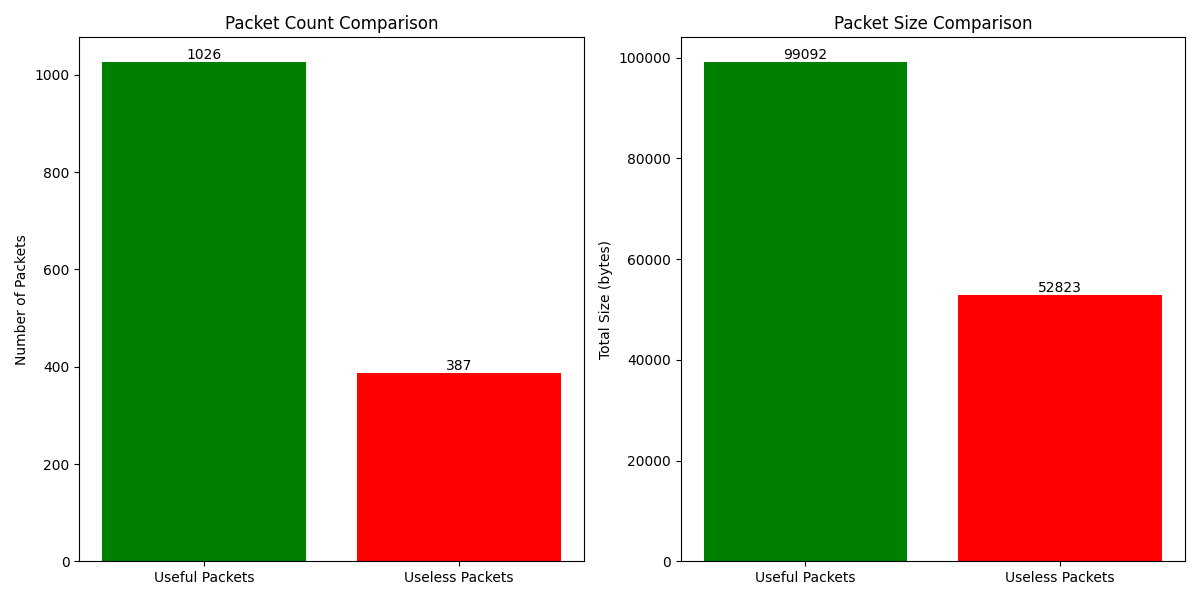
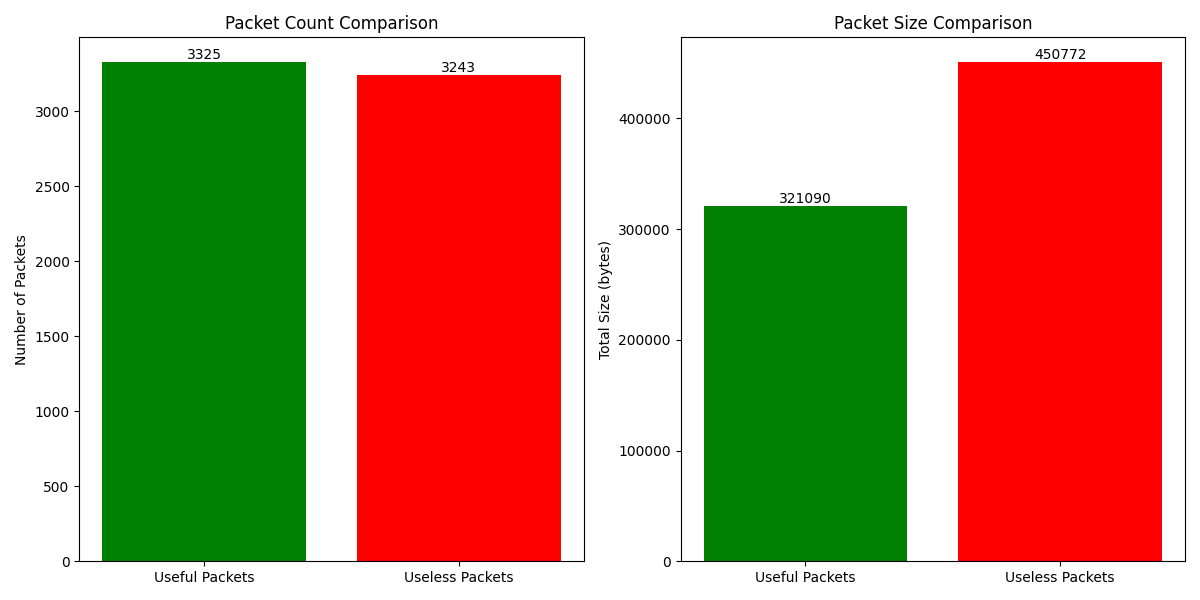
big topo

diff --git a/topology2.py b/topology2.py
@@ -127,43 +127,14 @@ class ThreeLayerTopo(Topo):
 # topos = { 'threelayer': ( lambda: ThreeLayerTopo() ) }
 net = Mininet(topo=ThreeLayerTopo(), controller=RemoteController)
 net.start()
-
-# to collect packets
-"""net.get('h1').cmd("tcpdump -i h1-eth0 -w h1-eth0.pcap &")
-net.get('h2').cmd("tcpdump -i h2-eth0 -w h2-eth0.pcap &")
-net.get('h3').cmd("tcpdump -i h3-eth0 -w h3-eth0.pcap &")
-net.get('h4').cmd("tcpdump -i h4-eth0 -w h4-eth0.pcap &")
-net.get('h5').cmd("tcpdump -i h5-eth0 -w h5-eth0.pcap &")
-net.get('h6').cmd("tcpdump -i h6-eth0 -w h6-eth0.pcap &")
-net.get('hi').cmd("tcpdump -i hi-eth0 -w hi-eth0.pcap &")
-
-net.get('s1').cmd("tcpdump -i s1-eth1 -w s1-eth1.pcap &")
-net.get('s1').cmd("tcpdump -i s1-eth2 -w s1-eth2.pcap &")
-
-net.get('s2').cmd("tcpdump -i s2-eth2 -w s2-eth2.pcap &")
-
-net.get('s2').cmd("tcpdump -i s2-eth3 -w s2-eth3.pcap &")
-net.get('s2').cmd("tcpdump -i s2-eth4 -w s2-eth4.pcap &")
-net.get('s3').cmd("tcpdump -i s3-eth3 -w s3-eth3.pcap &")
-net.get('s3').cmd("tcpdump -i s3-eth4 -w s3-eth4.pcap &")"""
-
-# to perform iperf
-"""net.get('hi1').cmd("iperf -s -u &")
-net.get('h2').cmd("iperf -s &")
-net.get('h5').cmd("iperf -s &")
-sleep(3)
-
-net.get('h1').cmd("iperf -c -u 1.1.1.1 -t 30 &")
-net.get('h4').cmd("iperf -c -u 1.1.1.1 -t 30 &")
-net.get('h3').cmd("iperf -c 10.0.2.5 -t 30 &")
-net.get('h6').cmd("iperf -c 10.0.1.2 -t 30 &")
-
-# perform ping
-net.get('h1').cmd("ping h2 &")
-net.get('h4').cmd("ping h5 &")
-net.get('h3').cmd("ping h6 &")
-net.get('h1').cmd("ping hi &")
-net.get('h4').cmd("ping hi &")"""
+print('sleeping')
+sleep(15)
+# to perform ping
+net.get('h1').cmd("ping 10.0.2.1 &")
+net.get('h3').cmd("ping 10.0.5.1 &")
+net.get('h4').cmd("ping 10.0.8.1 &")
+net.get('h6').cmd("ping 1.1.1.1 &")
+net.get('h7').cmd("ping 1.1.1.1 &")
 
 CLI(net)  # Open the Mininet CLI
 net.stop()  # Stop the network when done

diff --git a/flow_statistic.py b/flow_statistic.py
@@ -4,13 +4,6 @@ import matplotlib
 matplotlib.use('Agg')  
 import matplotlib.pyplot as plt
 
-# ONOS REST API details
-host = "localhost"
-port = "8181"
-username = "karaf"
-password = "karaf"
-url = f"http://{host}:{port}/onos/v1/flows"
-
 def plot_packet_statistics(useful_packets, useless_packets):
     plt.figure(figsize=(12, 6))
     
@@ -37,6 +30,13 @@ def plot_packet_statistics(useful_packets, useless_packets):
     plt.close()
 
 # Retrieve flow statistics
+
+# ONOS REST API details
+host = "localhost"
+port = "8181"
+username = "karaf"
+password = "karaf"
+url = f"http://{host}:{port}/onos/v1/flows"
 
 response = requests.get(url, auth=(username, password))
 
